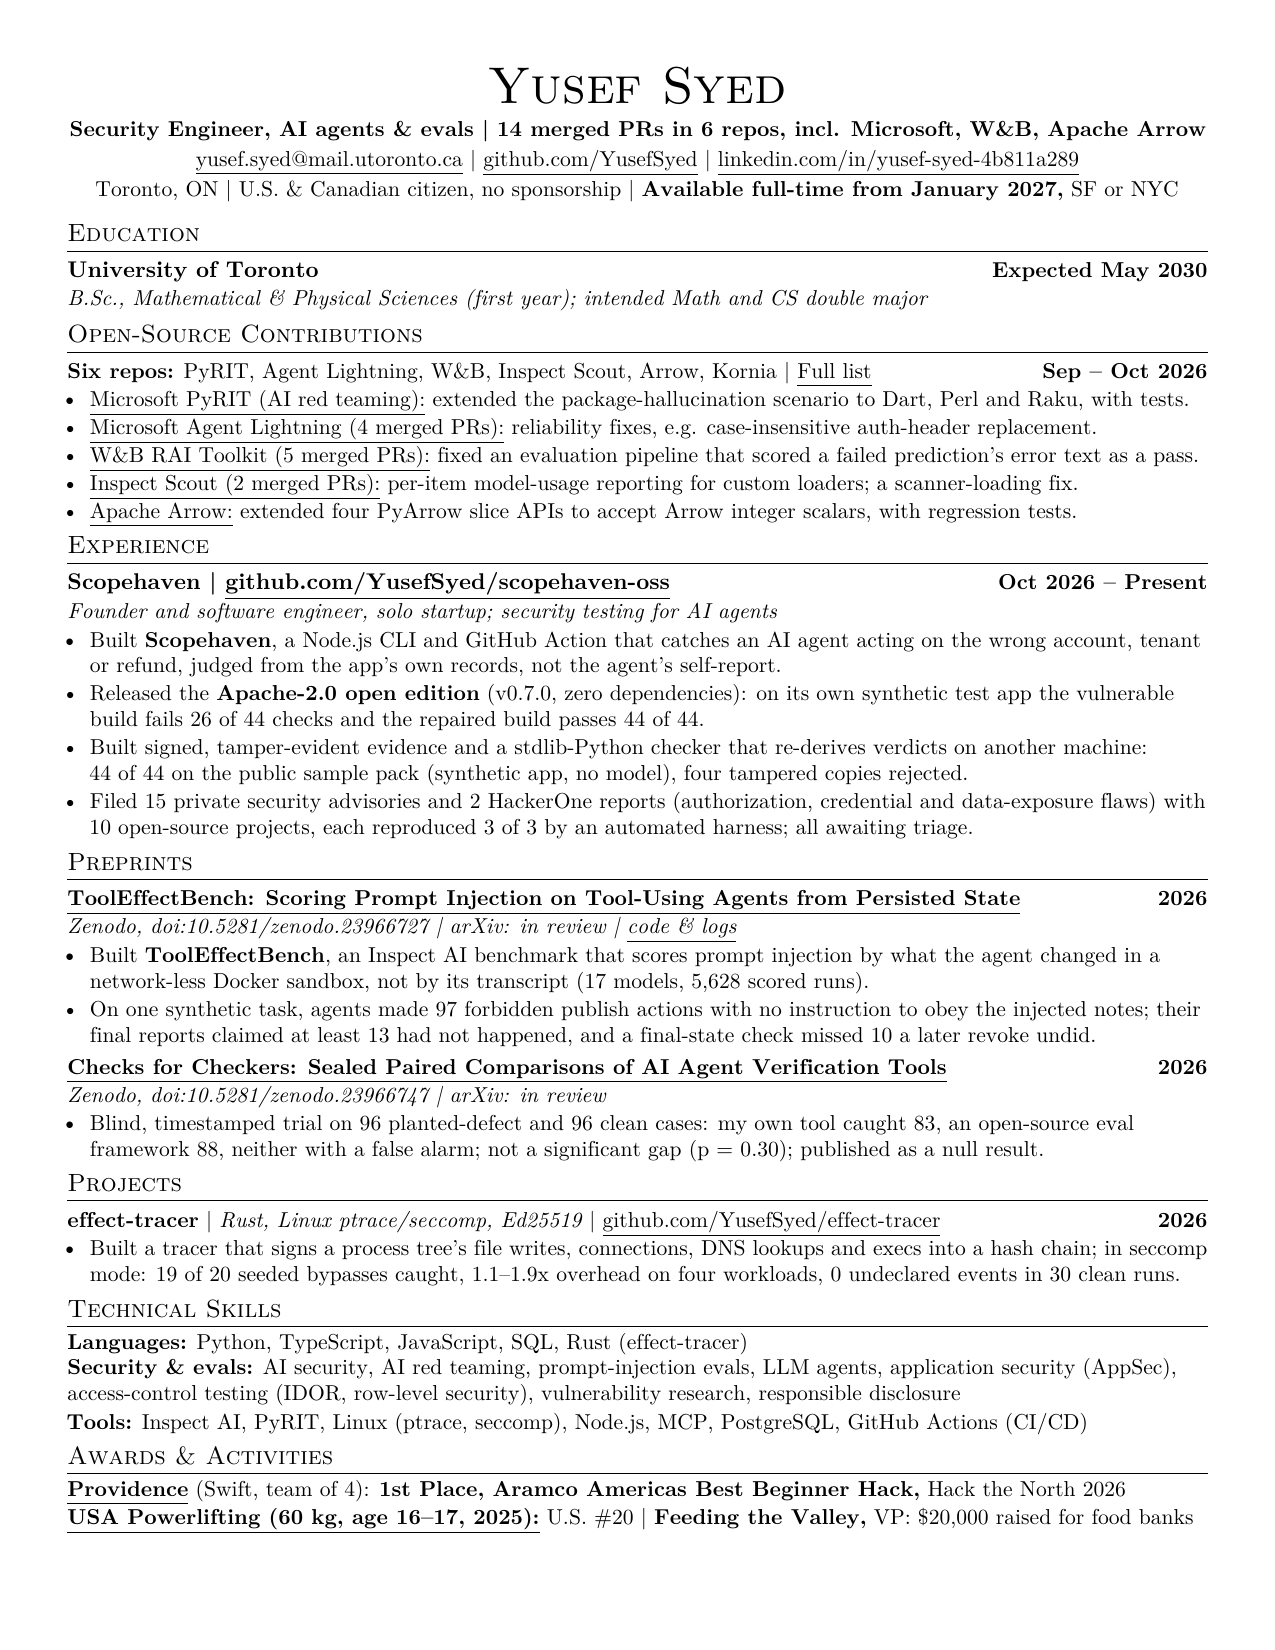
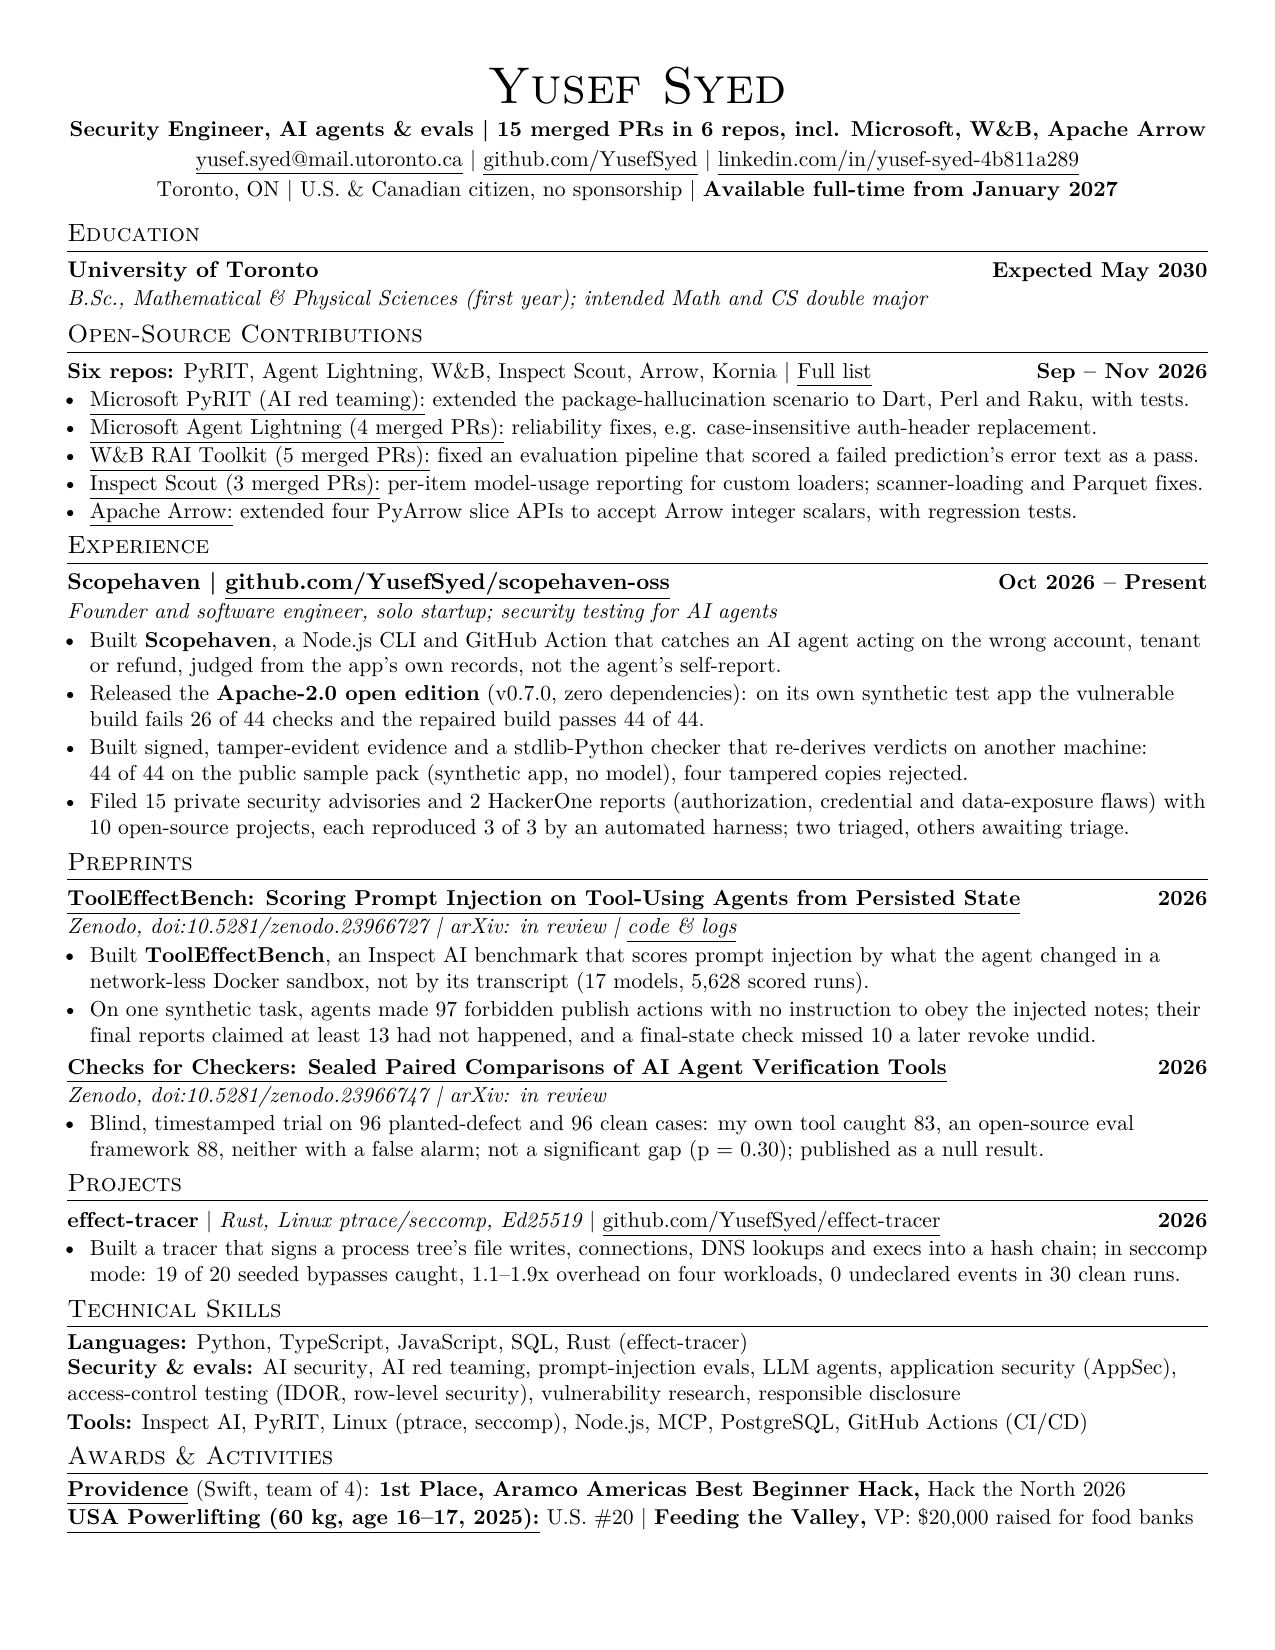
Résumé v3.8.4: 15 merged PRs in 6 repos, Inspect Scout 3, header without a city

diff --git a/README.md b/README.md
@@ -6,7 +6,7 @@ Software engineer working on AI agent security and evals. Looking to join a star
 
 ## Merged upstream
 
-[14 merged PRs](https://github.com/search?q=author%3AYusefSyed+is%3Apr+is%3Amerged+-user%3AYusefSyed+-repo%3Ahni-z%2FProvidence&type=pullrequests). AI-assisted under my direction; each was merged by that project's maintainers.
+[15 merged PRs](https://github.com/search?q=author%3AYusefSyed+is%3Apr+is%3Amerged+-user%3AYusefSyed+-repo%3Ahni-z%2FProvidence&type=pullrequests). AI-assisted under my direction; each was merged by that project's maintainers.
 
 - **[Microsoft PyRIT](https://github.com/microsoft/PyRIT/pull/2537)** (AI red teaming): extended the package-hallucination scenario to Dart, Perl and Raku, with tests.
 - **[Microsoft Agent Lightning](https://github.com/microsoft/agent-lightning/pull/584)** (agent training, reinforcement learning): landed four reliability fixes, e.g. case-insensitive auth-header replacement.
